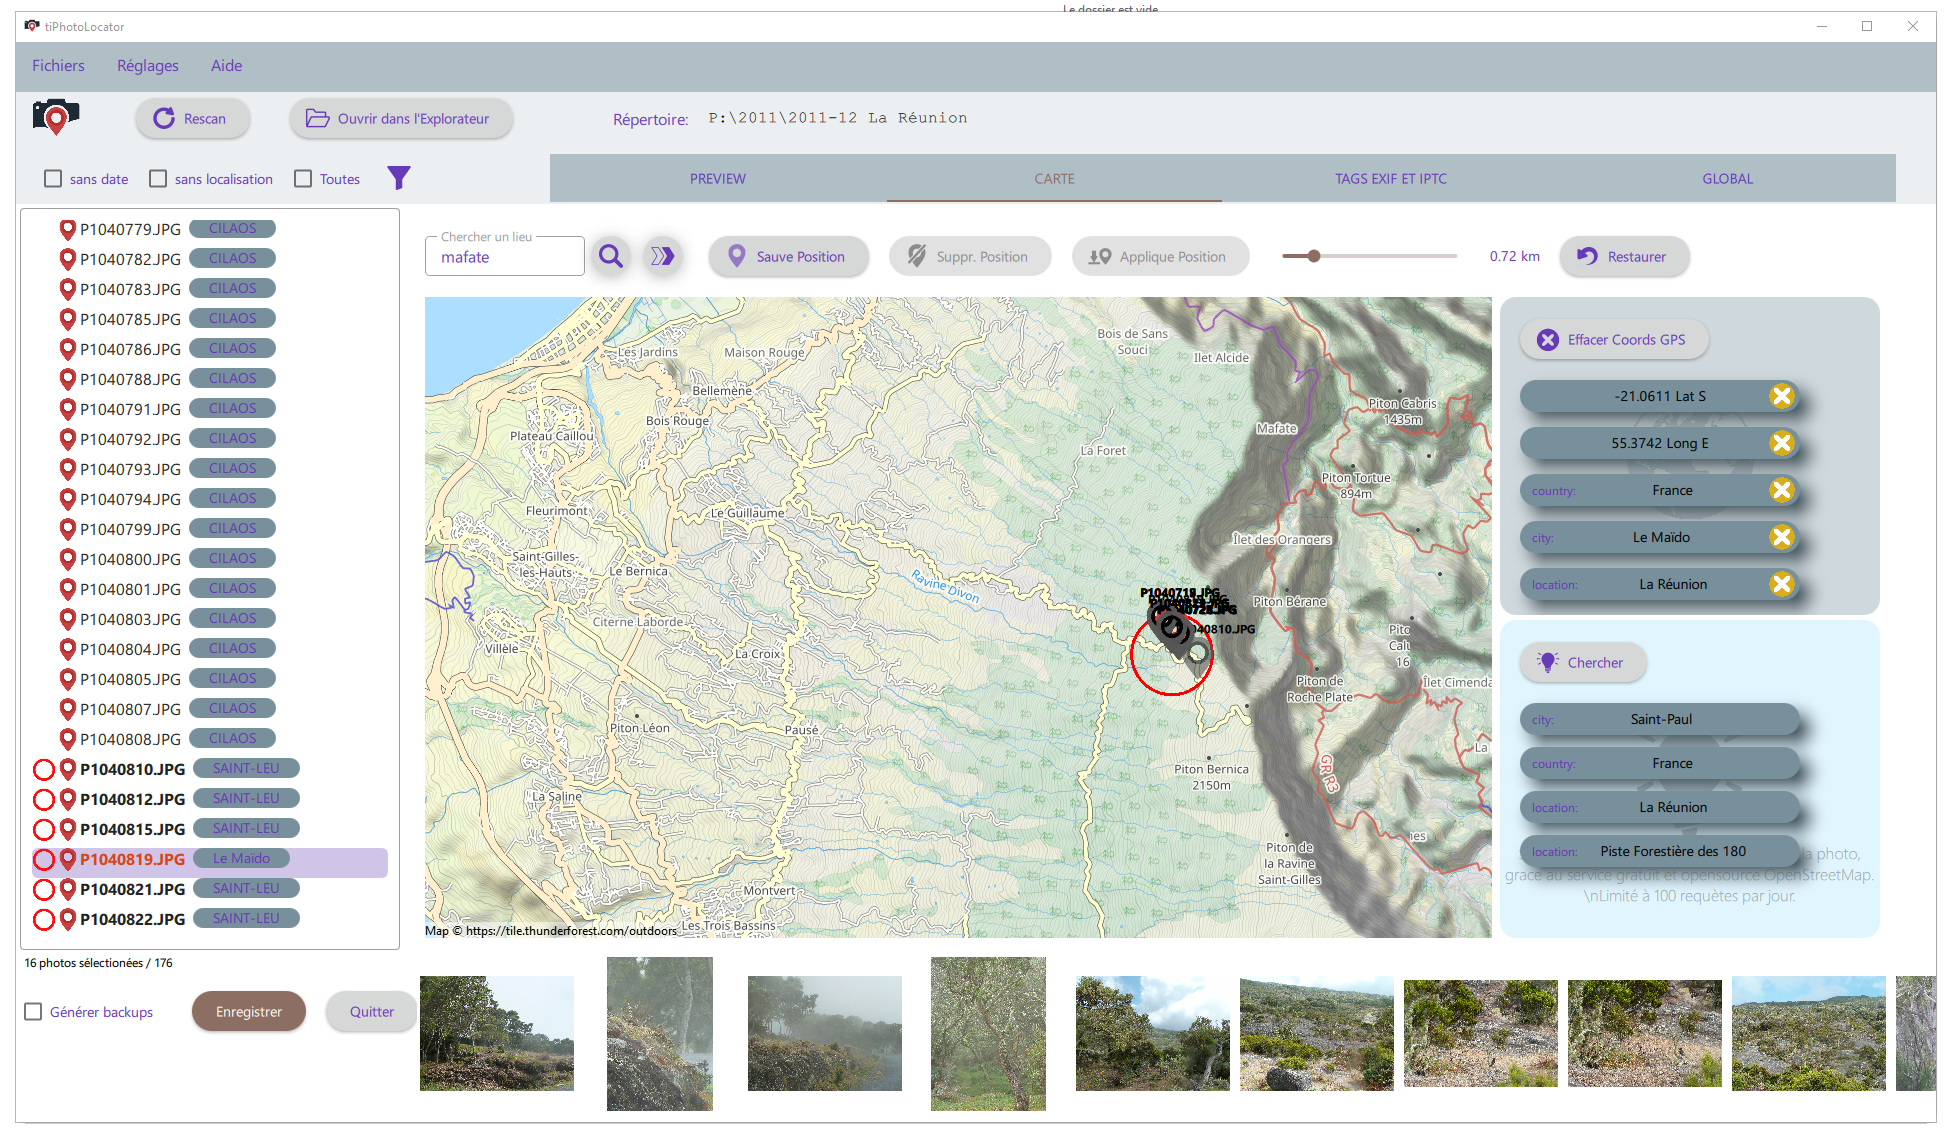
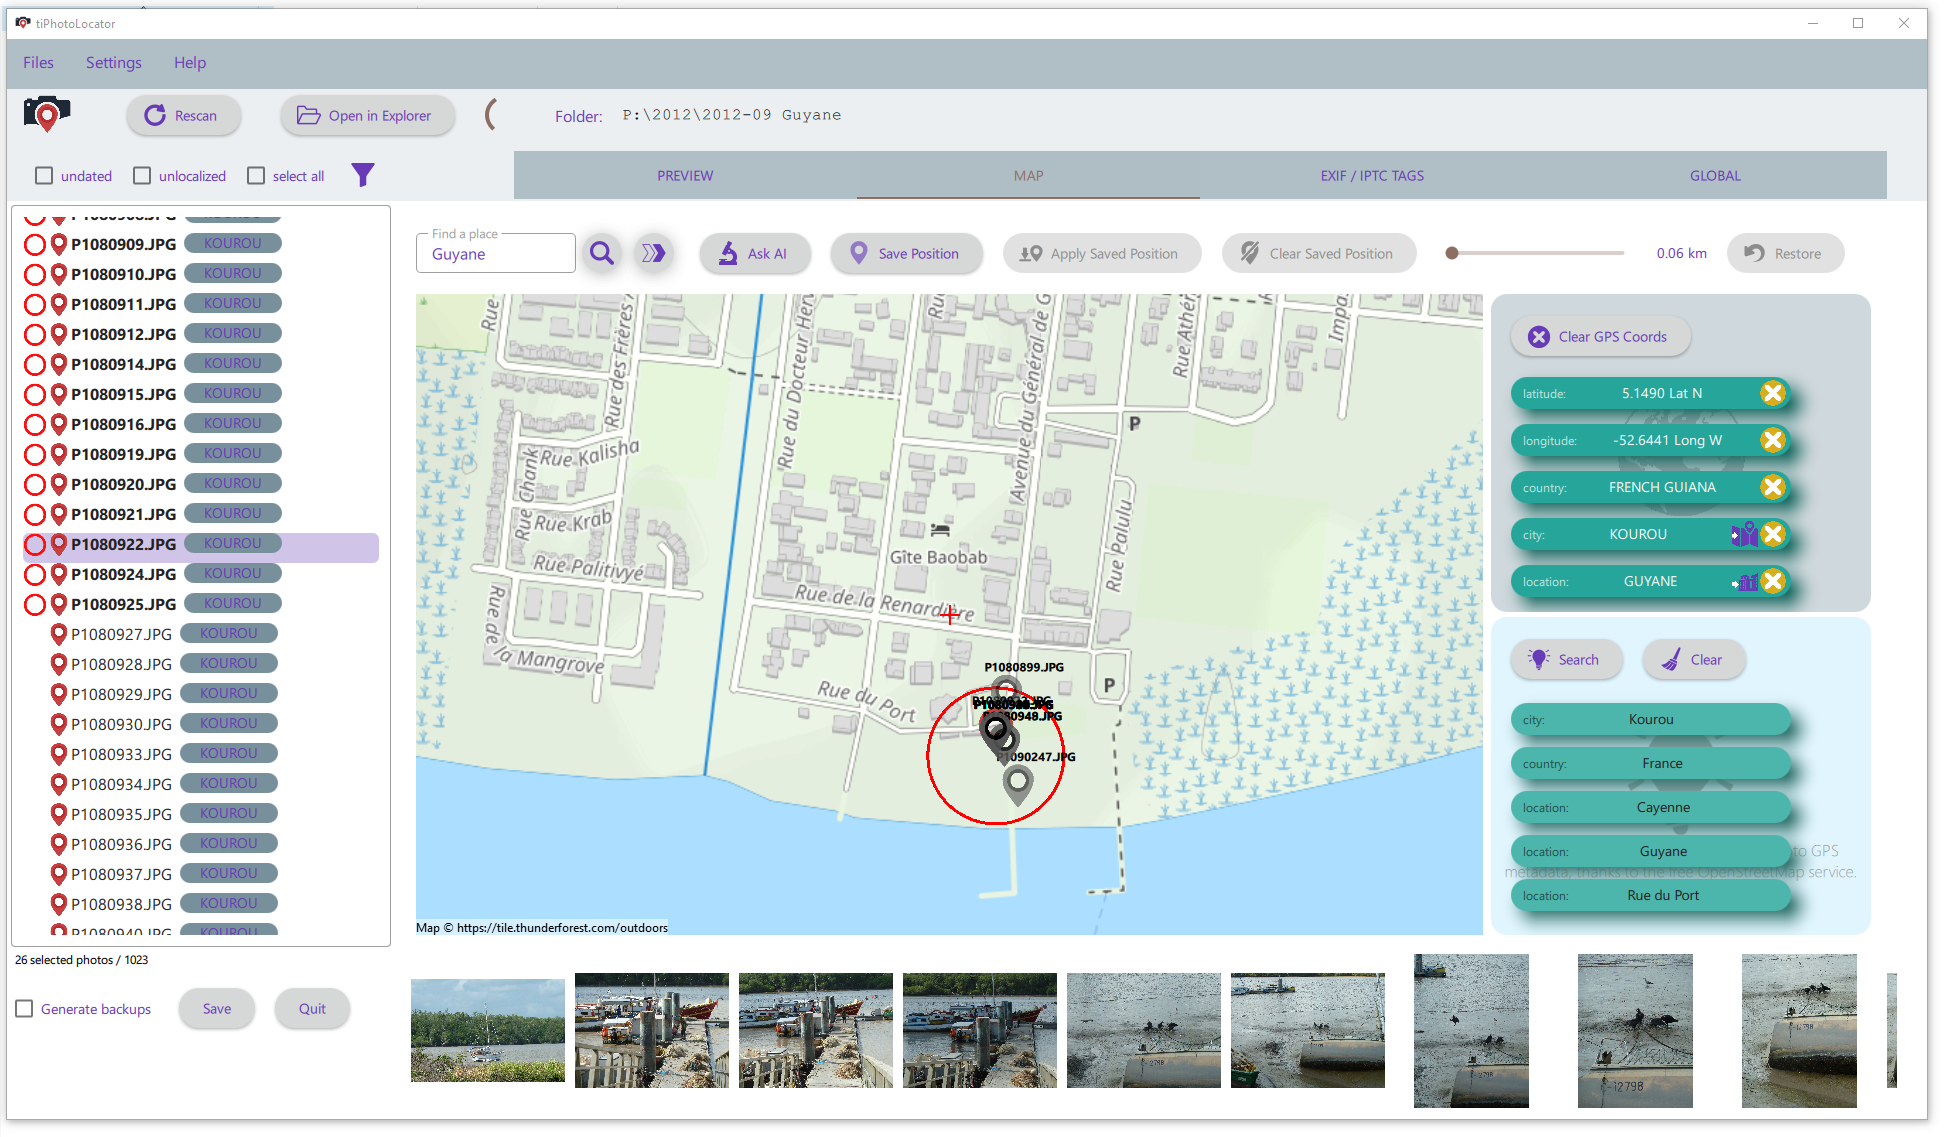
New colored chips

diff --git a/docs/misc/chip-proposals.html b/docs/misc/chip-proposals.html
@@ -1,0 +1,235 @@
+<!doctype html>
+<meta charset="utf-8">
+<title>TiPhotoLocator — Propositions chips</title>
+<style>
+  * { box-sizing: border-box; margin: 0; padding: 0; }
+  body { font-family: system-ui, sans-serif; background: #f0f2f5; color: #212121; padding: 32px; }
+  h1 { font-size: 1.4rem; font-weight: 700; margin-bottom: 6px; }
+  .subtitle { color: #666; font-size: 0.9rem; margin-bottom: 36px; }
+  section { margin-bottom: 40px; }
+  h2 { font-size: 1rem; font-weight: 700; margin-bottom: 4px; color: #333; }
+  .desc { font-size: 0.85rem; color: #555; margin-bottom: 16px; line-height: 1.5; }
+  .code { font-family: monospace; background: #eef; padding: 2px 6px; border-radius: 3px; font-size: 0.82rem; color: #445; }
+  .pros { font-size: 0.8rem; color: #2e7d32; margin-top: 6px; }
+  .cons { font-size: 0.8rem; color: #b71c1c; margin-top: 2px; }
+
+  /* Simulation chips */
+  .chips-row { display: flex; flex-wrap: wrap; gap: 10px; align-items: center; }
+  .chip {
+    display: flex; align-items: center; height: 32px; border-radius: 16px;
+    padding: 0 12px; font-size: 13px; font-weight: 400;
+    box-shadow: 3px 3px 6px rgba(0,0,0,.18);
+    position: relative; overflow: hidden; min-width: 120px;
+    user-select: none;
+  }
+  .chip-label { color: rgba(0,0,0,.5); font-size: 11px; margin-right: 4px; }
+  .chip-value { color: #111; font-size: 13px; }
+  .chip-icon { margin-left: auto; margin-right: -4px; opacity: .6; font-size: 16px; padding-left: 8px; }
+
+  /* === ÉTAT ACTUEL === */
+  .chip-current { background: #90a4ae; } /* BlueGrey 400 */
+  .chip-current .chip-label { color: rgba(255,255,255,.75); }
+  .chip-current .chip-value { color: #fff; }
+  .chip-current .chip-icon { color: #fff; }
+
+  /* === OPTION A : couleur par catégorie === */
+  .chip-geo   { background: #4db6ac; } /* Teal 300 */
+  .chip-photo { background: #9575cd; } /* DeepPurple 300 */
+  .chip-cam   { background: #78909c; } /* BlueGrey 400 */
+  .chip-kw    { background: #ffb74d; } /* Orange 300 */
+  .chip-geo .chip-label, .chip-photo .chip-label, .chip-cam .chip-label, .chip-kw .chip-label { color: rgba(255,255,255,.75); }
+  .chip-geo .chip-value, .chip-photo .chip-value, .chip-cam .chip-value, .chip-kw .chip-value { color: #fff; }
+  .chip-geo .chip-icon, .chip-photo .chip-icon, .chip-cam .chip-icon, .chip-kw .chip-icon { color: rgba(255,255,255,.8); }
+
+  /* === OPTION B : bande latérale === */
+  .chip-stripe { background: #cfd8dc; color: #212121; } /* BlueGrey 100 */
+  .chip-stripe::before {
+    content: ""; position: absolute; left: 0; top: 0; bottom: 0; width: 5px;
+    border-radius: 16px 0 0 16px;
+  }
+  .chip-stripe.geo::before  { background: #009688; }
+  .chip-stripe.photo::before { background: #673ab7; }
+  .chip-stripe.cam::before   { background: #546e7a; }
+  .chip-stripe.kw::before    { background: #f57c00; }
+  .chip-stripe .chip-label  { color: rgba(0,0,0,.45); font-size: 11px; }
+  .chip-stripe .chip-value  { color: #111; }
+  .chip-stripe .chip-icon   { color: #555; }
+  /* décalage texte pour la bande */
+  .chip-stripe { padding-left: 16px; }
+
+  /* === OPTION C : dirty state === */
+  .chip-dirty-current { background: #90a4ae; outline: none; }
+  .chip-dirty-current .chip-label { color: rgba(255,255,255,.75); }
+  .chip-dirty-current .chip-value { color: #fff; font-weight: bold; }
+  .chip-dirty-current .chip-icon { color: #fff; }
+
+  .chip-dirty-new { background: #90a4ae; outline: 2.5px solid #e64a19; outline-offset: 1px; }
+  .chip-dirty-new .chip-label { color: rgba(255,255,255,.75); }
+  .chip-dirty-new .chip-value { color: #fff; font-weight: bold; }
+  .chip-dirty-new .chip-icon { color: #fff; }
+
+  .chip-dirty-fill { background: #ff8a65; outline: none; } /* Orange 300 */
+  .chip-dirty-fill .chip-label { color: rgba(255,255,255,.75); }
+  .chip-dirty-fill .chip-value { color: #fff; font-weight: bold; }
+  .chip-dirty-fill .chip-icon { color: #fff; }
+
+  /* section separator */
+  .divider { border: none; border-top: 1px solid #ddd; margin: 32px 0; }
+
+  .tag { display: inline-block; font-size: 0.72rem; padding: 2px 8px; border-radius: 10px; margin-left: 8px; vertical-align: middle; font-weight: 600; }
+  .tag-easy { background: #c8e6c9; color: #1b5e20; }
+  .tag-med  { background: #fff9c4; color: #f57f17; }
+  .tag-hard { background: #ffcdd2; color: #b71c1c; }
+
+  .grid { display: grid; grid-template-columns: 1fr 1fr; gap: 24px; }
+  @media(max-width:700px) { .grid { grid-template-columns: 1fr; } }
+
+  .legend { display: flex; flex-wrap: wrap; gap: 12px; margin-bottom: 14px; font-size: 0.8rem; }
+  .legend-item { display: flex; align-items: center; gap: 5px; }
+  .dot { width: 12px; height: 12px; border-radius: 50%; flex-shrink: 0; }
+</style>
+
+<h1>TiPhotoLocator — Propositions d'amélioration des Chips</h1>
+<p class="subtitle">Trois options indépendantes, combinables entre elles.</p>
+
+<!-- ÉTAT ACTUEL -->
+<section>
+  <h2>État actuel</h2>
+  <p class="desc">Tous les chips ont la même couleur <span class="code">BlueGrey Shade400</span> quelle que soit leur catégorie. L'œil n'a aucun repère visuel pour distinguer un champ GPS d'un keyword ou d'une date.</p>
+  <div class="chips-row">
+    <div class="chip chip-current"><span class="chip-label">city:</span><span class="chip-value">Saint-Paul</span><span class="chip-icon">✎</span></div>
+    <div class="chip chip-current"><span class="chip-label">country:</span><span class="chip-value">France</span><span class="chip-icon">✎</span></div>
+    <div class="chip chip-current"><span class="chip-label">keyword:</span><span class="chip-value">portrait</span><span class="chip-icon">✎</span></div>
+    <div class="chip chip-current"><span class="chip-label">date:</span><span class="chip-value">13/12/2011</span><span class="chip-icon">✎</span></div>
+    <div class="chip chip-current"><span class="chip-label">make:</span><span class="chip-value">DMC T10</span></div>
+  </div>
+</section>
+
+<hr class="divider">
+
+<!-- OPTION A -->
+<section>
+  <h2>Option A — Couleur par catégorie <span class="tag tag-easy">Simple</span></h2>
+  <p class="desc">
+    Ajouter une propriété <span class="code">chipColor</span> dans <span class="code">Chips.qml</span>, avec une valeur par défaut calculée depuis <span class="code">target</span> via un switch QML. Les quatre catégories héritent d'une couleur définie dans <span class="code">Style.qml</span>. Les zones qui veulent surcharger peuvent passer la couleur explicitement.
+  </p>
+
+  <div class="legend">
+    <div class="legend-item"><div class="dot" style="background:#4db6ac"></div> Géolocalisation (Teal)</div>
+    <div class="legend-item"><div class="dot" style="background:#9575cd"></div> Photo / IPTC (DeepPurple)</div>
+    <div class="legend-item"><div class="dot" style="background:#78909c"></div> Appareil / EXIF (BlueGrey)</div>
+    <div class="legend-item"><div class="dot" style="background:#ffb74d"></div> Keywords (Orange)</div>
+  </div>
+
+  <div class="chips-row">
+    <div class="chip chip-geo"><span class="chip-label">city:</span><span class="chip-value">Saint-Paul</span><span class="chip-icon">✎</span></div>
+    <div class="chip chip-geo"><span class="chip-label">country:</span><span class="chip-value">France</span><span class="chip-icon">✎</span></div>
+    <div class="chip chip-geo"><span class="chip-label">location:</span><span class="chip-value">La Plaine</span><span class="chip-icon">⇄</span></div>
+    <div class="chip chip-photo"><span class="chip-label">date:</span><span class="chip-value">13/12/2011</span><span class="chip-icon">✎</span></div>
+    <div class="chip chip-photo"><span class="chip-label">creator:</span><span class="chip-value">David</span><span class="chip-icon">✎</span></div>
+    <div class="chip chip-cam"><span class="chip-label">make:</span><span class="chip-value">DMC T10</span></div>
+    <div class="chip chip-cam"><span class="chip-label">aperture:</span><span class="chip-value">f/3.5</span></div>
+    <div class="chip chip-kw"><span class="chip-label">keyword:</span><span class="chip-value">portrait</span><span class="chip-icon">✎</span></div>
+    <div class="chip chip-kw"><span class="chip-label">keyword:</span><span class="chip-value">voyage</span><span class="chip-icon">✎</span></div>
+  </div>
+
+  <p class="pros">✔ Un seul changement dans Chips.qml — aucun impact sur les zones appelantes</p>
+  <p class="pros">✔ Le GhostChip reprend automatiquement la couleur du chip source</p>
+  <p class="cons">✘ Les chips de suggestions (SuggestionRepeater) ont déjà leur propre fond bleu clair — vérifier la cohérence</p>
+
+  <br>
+  <p class="desc"><strong>Code dans Chips.qml :</strong></p>
+  <pre style="background:#f5f5f5;padding:12px;border-radius:6px;font-size:0.82rem;overflow-x:auto"><code>property color chipColor: {
+    switch(target) {
+        case "latitude": case "longitude":
+        case "country": case "city": case "location":
+            return Style.chipGeoColor       // Teal 300
+        case "keyword":
+            return Style.chipKeywordColor   // Orange 300
+        case "make": case "model":
+        case "aperture": case "speed": case "software":
+            return Style.chipCameraColor    // BlueGrey 400 (inchangé)
+        default:
+            return Style.chipPhotoColor     // DeepPurple 300
+    }
+}
+// Et dans chipRectangle :
+color: chipColor</code></pre>
+</section>
+
+<hr class="divider">
+
+<!-- OPTION B -->
+<section>
+  <h2>Option B — Bande latérale colorée <span class="tag tag-easy">Simple</span></h2>
+  <p class="desc">
+    Le fond du chip reste neutre (BlueGrey 100 = plus clair qu'actuellement), mais une fine bande de 5px à gauche encode la catégorie. Moins «criard» que l'option A, convient si on veut rester sobre.
+    Implémentation : un <span class="code">Rectangle</span> de 5px en position absolue dans <span class="code">chipRectangle</span>, avec <span class="code">color: chipAccentColor</span>.
+  </p>
+
+  <div class="chips-row">
+    <div class="chip chip-stripe geo"><span class="chip-label">city:</span><span class="chip-value">Saint-Paul</span><span class="chip-icon">✎</span></div>
+    <div class="chip chip-stripe geo"><span class="chip-label">country:</span><span class="chip-value">France</span><span class="chip-icon">✎</span></div>
+    <div class="chip chip-stripe photo"><span class="chip-label">date:</span><span class="chip-value">13/12/2011</span><span class="chip-icon">✎</span></div>
+    <div class="chip chip-stripe photo"><span class="chip-label">creator:</span><span class="chip-value">David</span><span class="chip-icon">✎</span></div>
+    <div class="chip chip-stripe cam"><span class="chip-label">make:</span><span class="chip-value">DMC T10</span></div>
+    <div class="chip chip-stripe kw"><span class="chip-label">keyword:</span><span class="chip-value">portrait</span><span class="chip-icon">✎</span></div>
+  </div>
+
+  <p class="pros">✔ Très discret, préserve le style actuel</p>
+  <p class="pros">✔ Meilleure lisibilité du texte (fond clair)</p>
+  <p class="cons">✘ Moins immédiatement visible qu'une couleur pleine — l'effet est subtil</p>
+</section>
+
+<hr class="divider">
+
+<!-- OPTION C -->
+<section>
+  <h2>Option C — État "modifié" plus visible <span class="tag tag-easy">Simple</span></h2>
+  <p class="desc">
+    Actuellement, <span class="code">canSave</span> met le texte en gras. Deux variantes plus expressives, à choisir :
+  </p>
+
+  <div class="grid">
+    <div>
+      <p class="desc"><strong>C1 — Bordure orange</strong><br>Le fond reste identique, mais une outline colorée (<span class="code">border.color</span> + <span class="code">border.width: 2</span>) signale la modification.</p>
+      <div class="chips-row">
+        <div class="chip chip-dirty-current"><span class="chip-label">city:</span><span class="chip-value">Saint-Paul</span></div>
+        <div class="chip chip-dirty-new"><span class="chip-label">city:</span><span class="chip-value">Le Port</span><span class="chip-icon">💾</span></div>
+      </div>
+      <p class="desc" style="margin-top:8px">← intact &nbsp;&nbsp; modifié →</p>
+      <p class="pros">✔ Peu intrusif, change seulement le contour</p>
+    </div>
+    <div>
+      <p class="desc"><strong>C2 — Fond orange</strong><br>Le chip entier change de couleur quand <span class="code">canSave</span> est vrai. Signal fort.</p>
+      <div class="chips-row">
+        <div class="chip chip-dirty-current"><span class="chip-label">city:</span><span class="chip-value">Saint-Paul</span></div>
+        <div class="chip chip-dirty-fill"><span class="chip-label">city:</span><span class="chip-value">Le Port</span><span class="chip-icon">💾</span></div>
+      </div>
+      <p class="desc" style="margin-top:8px">← intact &nbsp;&nbsp; modifié →</p>
+      <p class="pros">✔ Impossible à rater, cohérent avec <span class="code">accentTextColor: DeepOrange</span> déjà dans Style.qml</p>
+    </div>
+  </div>
+
+  <br>
+  <p class="desc"><strong>Code dans Chips.qml (variante C2) :</strong></p>
+  <pre style="background:#f5f5f5;padding:12px;border-radius:6px;font-size:0.82rem;overflow-x:auto"><code>// Dans chipRectangle :
+color: canSave ? Style.chipDirtyColor : chipColor
+// Dans Style.qml :
+readonly property color chipDirtyColor: Material.color(Material.DeepOrange, Material.Shade300)</code></pre>
+</section>
+
+<hr class="divider">
+
+<!-- RECOMMANDATION -->
+<section>
+  <h2>Recommandation</h2>
+  <p class="desc">
+    Ces trois options sont <strong>indépendantes et cumulables</strong>. La combinaison la plus efficace pour un minimum d'effort :
+  </p>
+  <ul style="font-size:0.88rem;line-height:2;padding-left:1.2em;color:#333">
+    <li><strong>A + C2</strong> : couleur par catégorie + fond orange sur modification → toute l'information d'état est encodée dans la couleur, sans ajouter un seul widget.</li>
+    <li>Tout se joue dans <span class="code">Chips.qml</span> (propriété <span class="code">chipColor</span> calculée) et <span class="code">Style.qml</span> (4 nouvelles couleurs). Aucun fichier zone à modifier.</li>
+  </ul>
+</section>
+</style>
